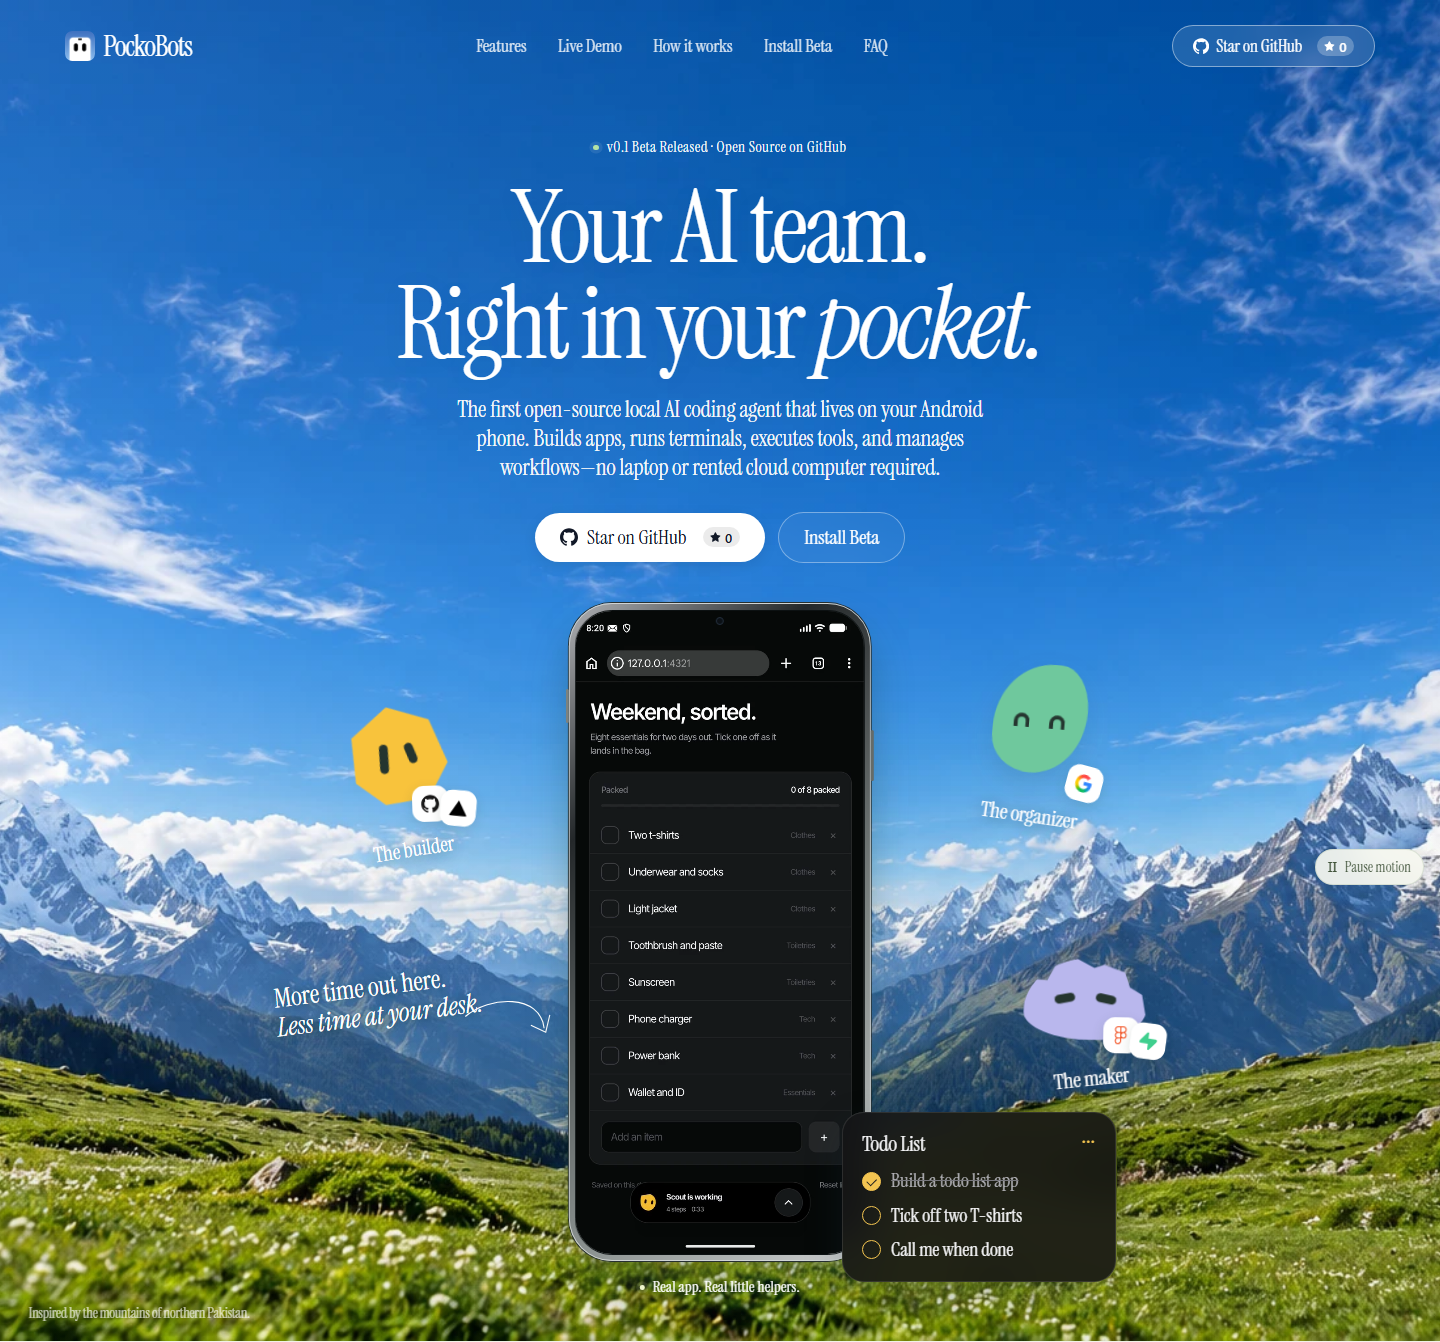
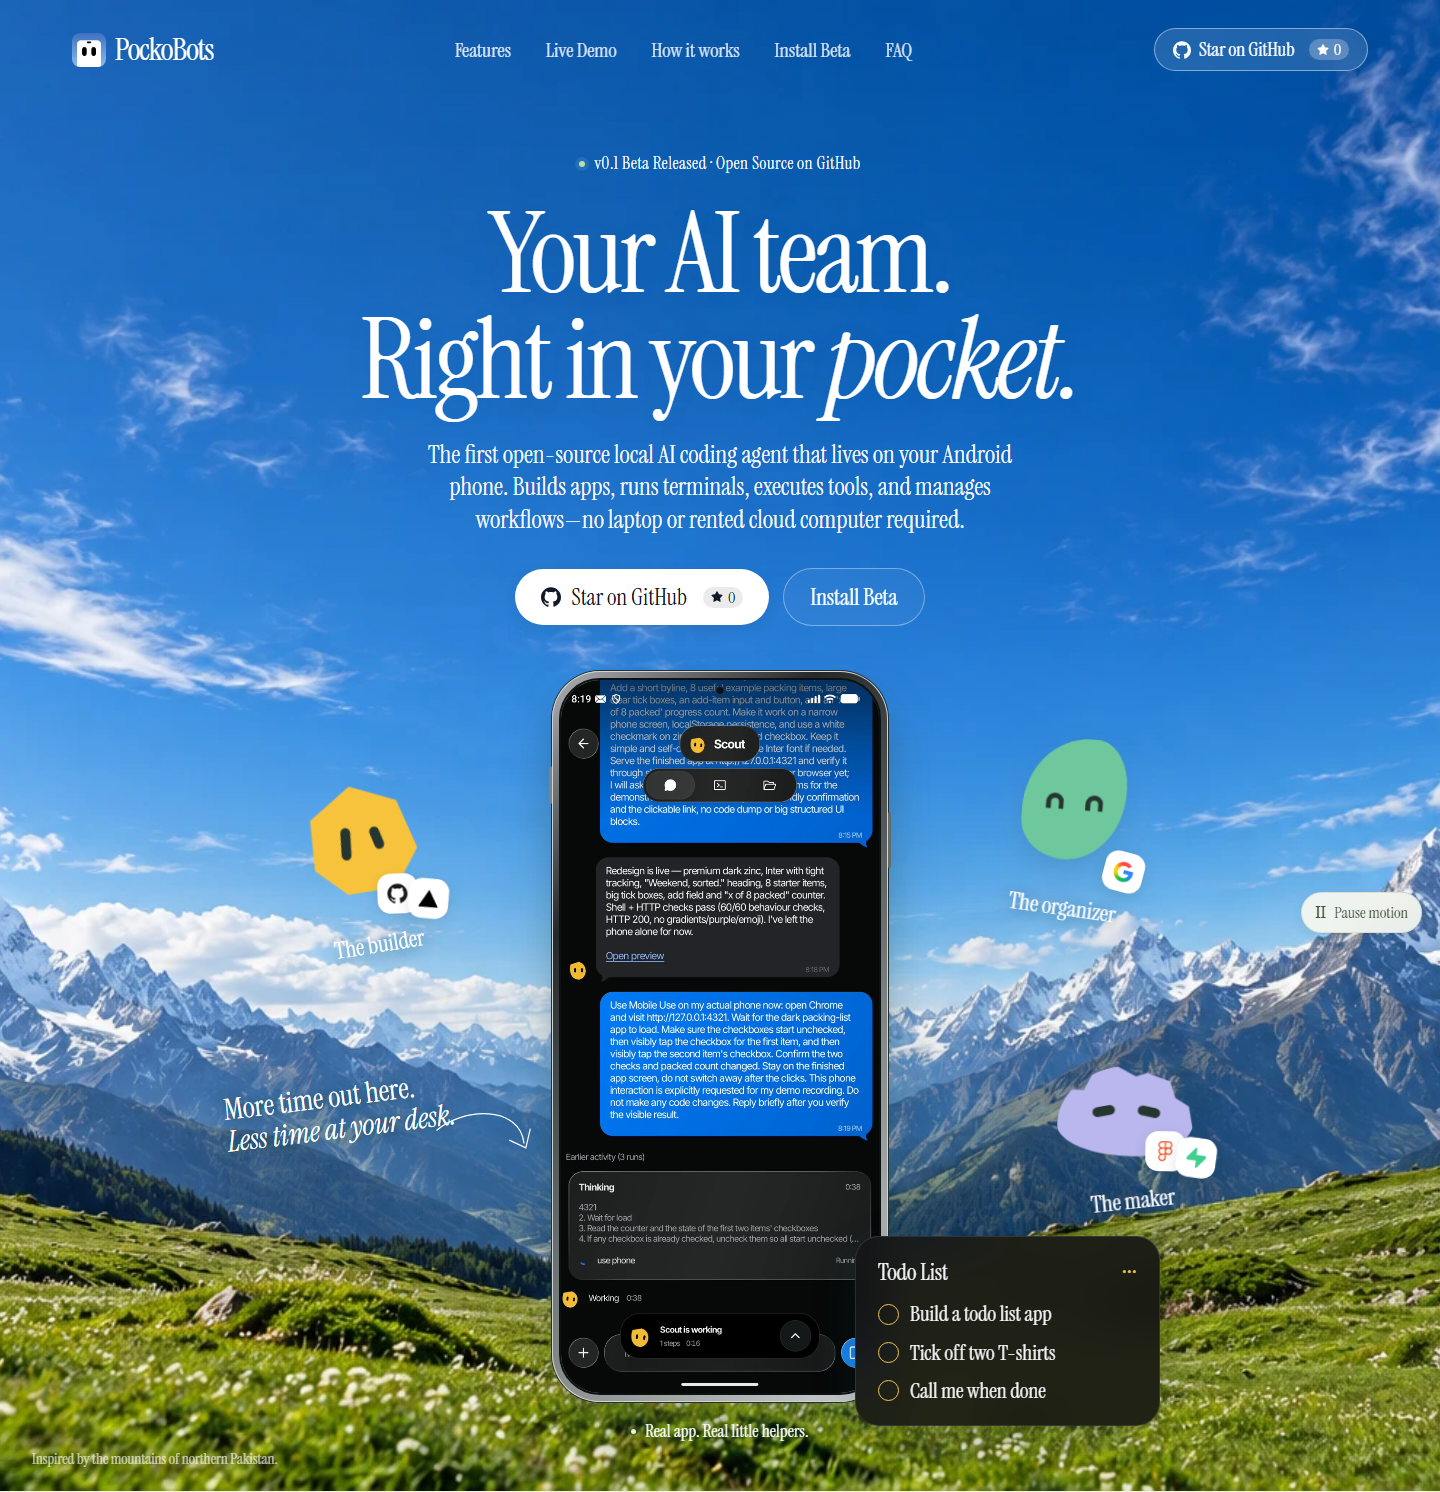
docs(readme): add hero frame 1, connections integration garden, and freedom comparison table screenshots

diff --git a/README.md b/README.md
@@ -14,6 +14,10 @@ An open-source, phone-hosted alternative to Muse, Grok Bot and Dots.
 
 </div>
 
+<p align="center">
+  <img src="docs/images/landing-hero.png" width="800" alt="PockoBots Hero Overview" />
+</p>
+
 Give a bot a name, tell it what to do, and get on with your day. It can build an
 app, run a project, browse the web, operate Android apps, check for updates and
 message you when it needs you—all from the same conversation.
@@ -35,12 +39,6 @@ PockoBots live demo: autonomous AI bots running on an Android phone, executing t
 
 <p align="center">
   <img src="docs/images/demo.gif" width="720" alt="PockoBots live demo: autonomous AI bots running on an Android phone, executing tasks, and managing workflows" />
-</p>
-
-### PockoBots Overview
-
-<p align="center">
-  <img src="docs/images/landing-hero.png" width="800" alt="PockoBots Overview" />
 </p>
 
 ### Features & Capabilities
@@ -92,6 +90,12 @@ Hidden native-app control is experimental. A YouTube secondary-display experimen
 passed on the Pixel emulator with an ADB/scrcpy companion, while Settings remained
 on the main screen. The standalone app still uses the visible screen; no isolated
 LinkedIn or Instagram account is claimed. See the [measured display results](docs/BACKGROUND_DISPLAYS.md).
+
+### Connected to your everyday tools and services
+
+<p align="center">
+  <img src="docs/images/landing-connections.png" width="800" alt="Already part of your life. Now part of your team. Integration Garden" />
+</p>
 
 ## Get started
 
@@ -156,6 +160,10 @@ and the relevant Android permissions; priority alerts can appear while locked
 when Android permits them.
 
 ## How it compares
+
+<p align="center">
+  <img src="docs/images/landing-freedom.png" width="800" alt="Your phone is already a computer. Let's put it to work. Comparison Showcase" />
+</p>
 
 PockoBots is for people who want to own the execution environment and choose
 the model behind their personal bots. It is an independent project, not an
